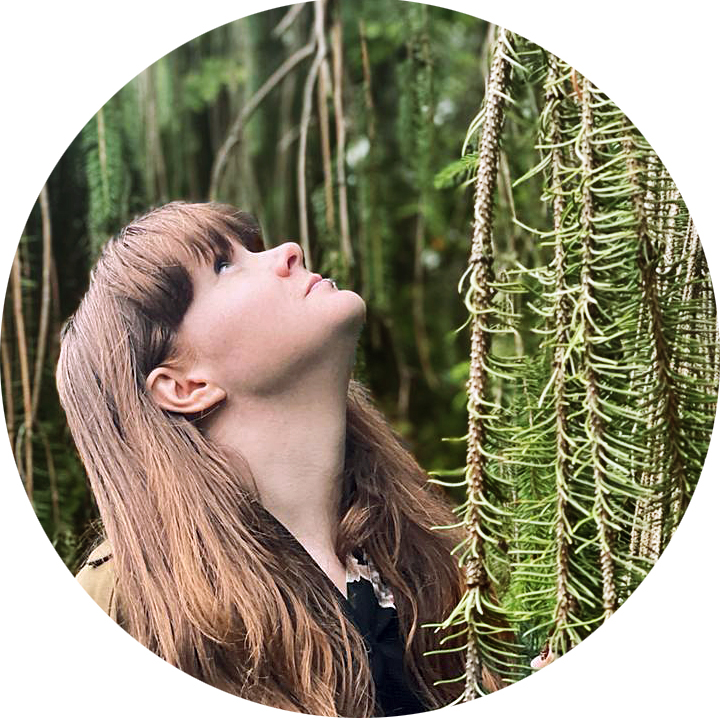
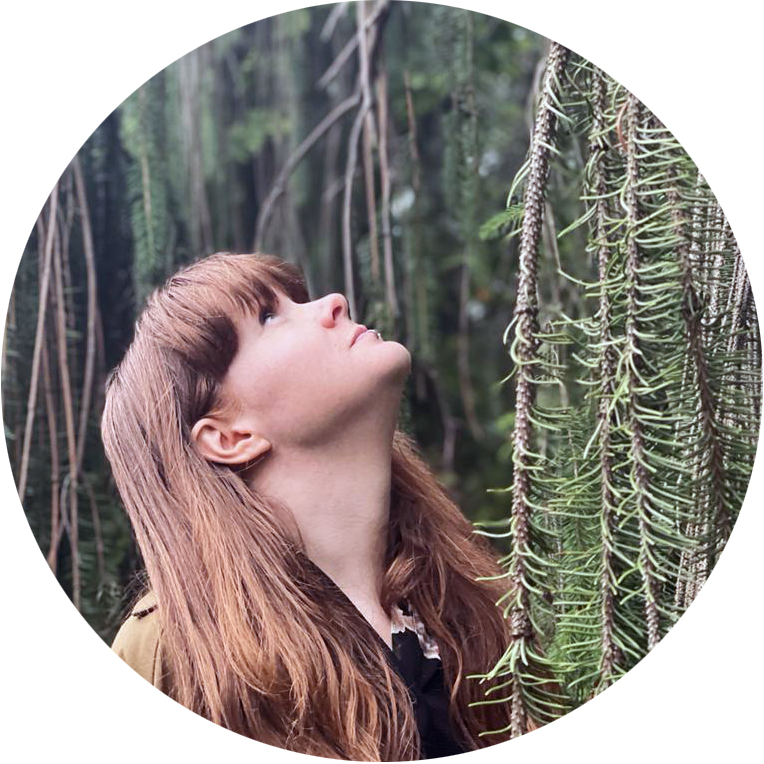
Updated GitHub pages site with Jekyll

diff --git a/assets/css/style.css b/assets/css/style.css
@@ -88,7 +88,7 @@ article:last-child
 .main
 {
 	background: rgb(255, 255, 255);
-    height: 600px;
+    height: 700px;
 }
 
 
@@ -97,9 +97,9 @@ article:last-child
 /************************/  
 .content
 {
-	background: rgb(255, 255, 255);
+	background: rgb(204, 23, 23);
 	float: left;
-	height: 600px;
+	height: 700px;
 	padding-right: 20px;
 }
 .content-text {

diff --git a/index.html b/index.html
@@ -3,7 +3,5 @@ layout: default
 ---
 
 <div class="content">
-  <br>
-  <p><img src="/assets/images/home_no-frame.jpg"  width="100%" height="100%" alt=""></p>
-  <br>
+  <p><img src="/assets/images/home-long.jpg"  width="100%" height="100%" alt=""></p>
 </div>
